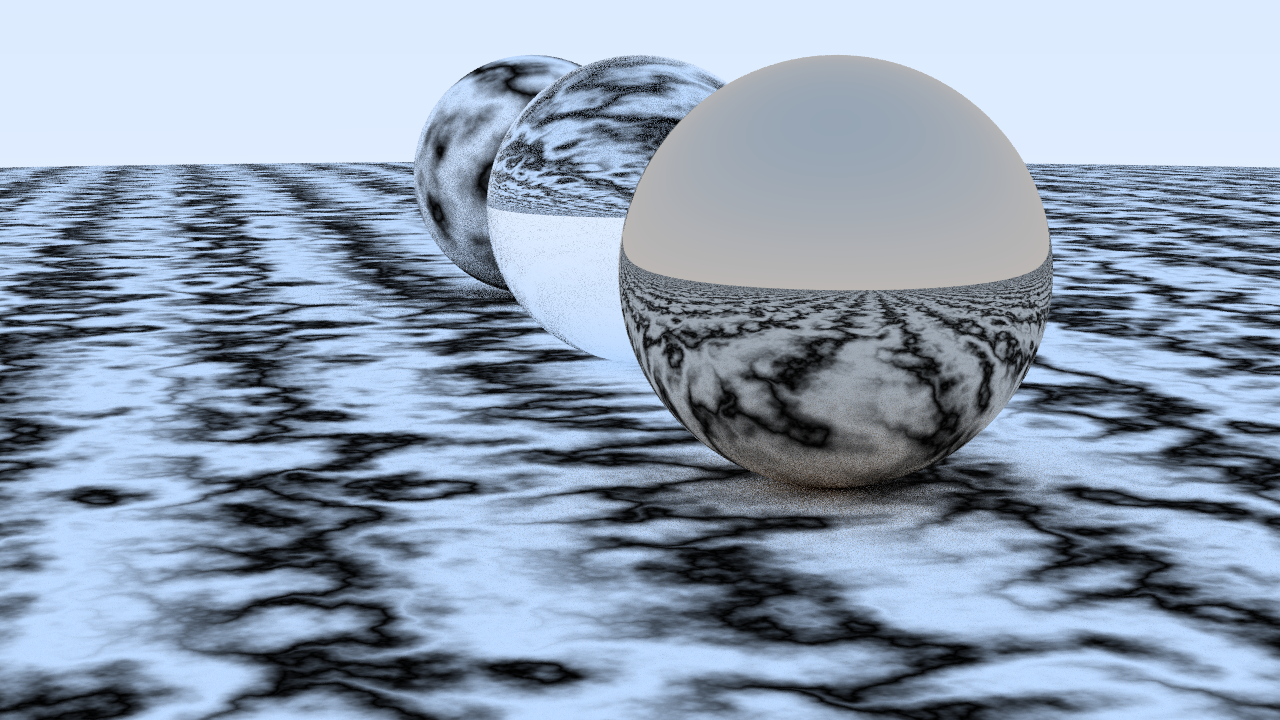
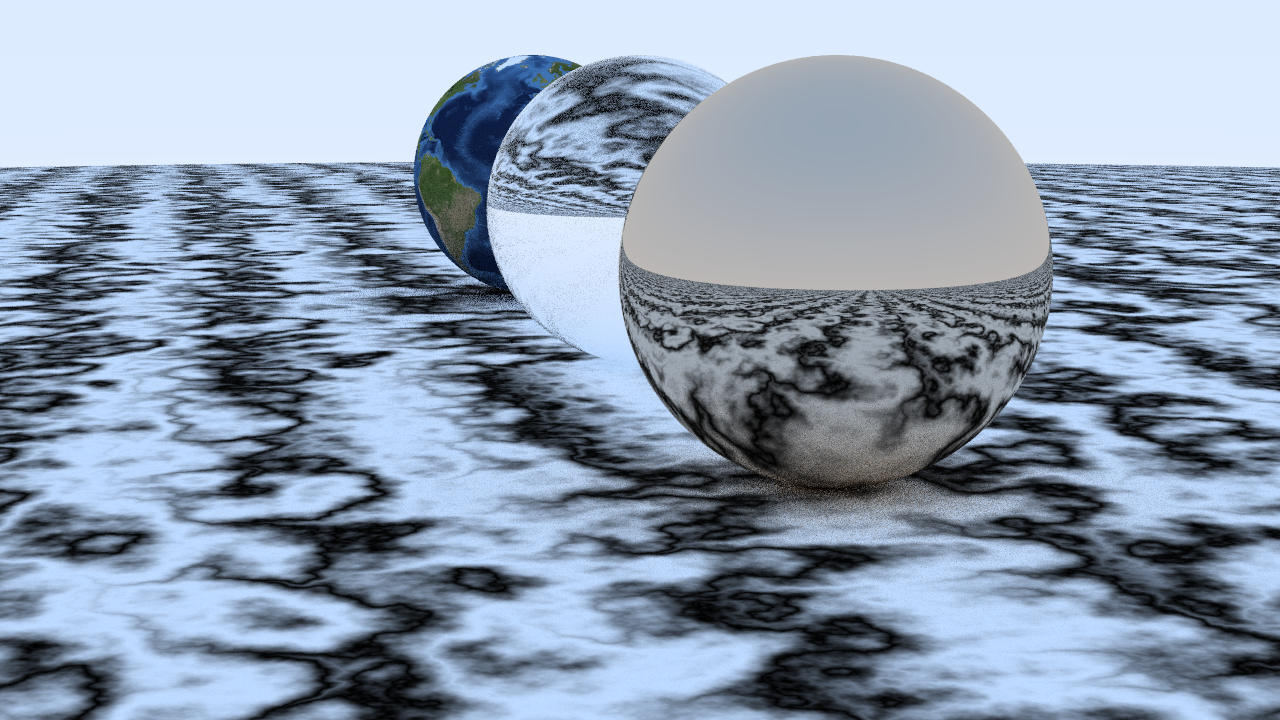
add surface texture

diff --git a/src/material.rs b/src/material.rs
@@ -3,7 +3,7 @@ use crate::vec::Vec3;
 use crate::hitable::HitRecord;
 use crate::sphere;
 use crate::math;
-use crate::perlin;
+use crate::texture::Texture;
 
 use rand::random;
 
@@ -37,7 +37,7 @@ impl Material for Diffuse {
         let target = record.p + record.normal + sphere::random_in_unit_sphere();
         let scattered = Ray::new(record.p, target - record.p, ray.time);
 
-        return Scatter::new(self.albedo.value(0.0, 0.0, &record.p), Some(scattered));
+        return Scatter::new(self.albedo.value(record.u, record.v, &record.p), Some(scattered));
     }
 }
 
@@ -113,102 +113,5 @@ impl Material for Dielectric {
         } else {
             return Scatter::new(attenuation, Some(Ray::new(record.p, refracted.unwrap(), ray.time)))
         }
-    }
-}
-
-pub trait Texture: Send + Sync {
-    fn value(&self, u: f32, v: f32, p: &Vec3) -> Vec3;
-}
-
-pub struct ConstantTexture {
-    color: Vec3
-}
-
-impl ConstantTexture {
-    pub fn new(color: Vec3) -> Self {
-        ConstantTexture { color }
-    }
-}
-
-impl Texture for ConstantTexture {
-    fn value(&self, u: f32, v: f32, p: &Vec3) -> Vec3 {
-        self.color
-    }
-}
-
-pub struct CheckerTexture {
-    odd: Box<Texture>,
-    even: Box<Texture>
-}
-
-impl CheckerTexture {
-    pub fn new(odd: Box<Texture>, even: Box<Texture>) -> Self {
-        CheckerTexture { odd, even }
-    }
-}
-
-impl Texture for CheckerTexture {
-    fn value(&self, u: f32, v: f32, p: &Vec3) -> Vec3 {
-        let sines = (p.x * 10.0).sin() * (p.y * 10.0).sin() * (p.z * 10.0).sin();
-
-        if sines < 0.0 {
-            return self.odd.value(u, v, p);
-        } else {
-            return self.even.value(u, v, p);
-        }
-    }
-}
-
-pub struct NoiseTexture {
-    scale: f32
-}
-
-impl NoiseTexture {
-    pub fn new(scale: f32) -> Self {
-        NoiseTexture { scale }
-    }
-}
-
-impl Texture for NoiseTexture {
-    fn value(&self, u: f32, v: f32, p: &Vec3) -> Vec3 {
-        //return Vec3::new(1.0, 1.0, 1.0) * perlin::turb((*p * self.scale), 7);
-
-        return Vec3::new(1.0, 1.0, 1.0) * 0.5 * (1.0 + (self.scale * p.z + 10.0 * perlin::turb(*p, 7)).sin());
-    }
-}
-
-pub struct ImageTexture {
-    nx: usize,
-    ny: usize
-}
-
-impl ImageTexture {
-    pub fn new(nx: usize, ny: usize) -> Self {
-        ImageTexture { nx, ny }
-    }
-}
-
-impl Texture for ImageTexture {
-    fn value(&self, u: f32, v: f32, p: &Vec3) -> Vec3 {
-        let mut i = u * self.nx as f32;
-        let mut j = (1.0 - v) * self.ny as f32 - 0.001;
-
-        if i < 0.0 {
-            i = 0.0;
-        }
-
-        if j < 0.0 {
-            j = 0.0;
-        }
-
-        if i > (self.nx - 1) as f32 {
-            i = (self.nx - 1) as f32;
-        }
-
-        if j > (self.ny - 1) as f32 {
-            j = (self.ny - 1) as f32;
-        }
-
-        Vec3::zero()
     }
 }

diff --git a/src/texture.rs b/src/texture.rs
@@ -1,0 +1,118 @@
+use crate::vec::Vec3;
+use crate::perlin;
+
+use lodepng::RGB;
+
+pub trait Texture: Send + Sync {
+    fn value(&self, u: f32, v: f32, p: &Vec3) -> Vec3;
+}
+
+pub struct ConstantTexture {
+    color: Vec3
+}
+
+impl ConstantTexture {
+    pub fn new(color: Vec3) -> Self {
+        ConstantTexture { color }
+    }
+}
+
+impl Texture for ConstantTexture {
+    fn value(&self, u: f32, v: f32, p: &Vec3) -> Vec3 {
+        self.color
+    }
+}
+
+pub struct CheckerTexture {
+    odd: Box<Texture>,
+    even: Box<Texture>
+}
+
+impl CheckerTexture {
+    pub fn new(odd: Box<Texture>, even: Box<Texture>) -> Self {
+        CheckerTexture { odd, even }
+    }
+}
+
+impl Texture for CheckerTexture {
+    fn value(&self, u: f32, v: f32, p: &Vec3) -> Vec3 {
+        let sines = (p.x * 10.0).sin() * (p.y * 10.0).sin() * (p.z * 10.0).sin();
+
+        if sines < 0.0 {
+            return self.odd.value(u, v, p);
+        } else {
+            return self.even.value(u, v, p);
+        }
+    }
+}
+
+pub struct NoiseTexture {
+    scale: f32
+}
+
+impl NoiseTexture {
+    pub fn new(scale: f32) -> Self {
+        NoiseTexture { scale }
+    }
+}
+
+impl Texture for NoiseTexture {
+    fn value(&self, u: f32, v: f32, p: &Vec3) -> Vec3 {
+        //return Vec3::new(1.0, 1.0, 1.0) * perlin::turb((*p * self.scale), 7);
+
+        return Vec3::new(1.0, 1.0, 1.0) * 0.5 * (1.0 + (self.scale * p.z + 10.0 * perlin::turb(*p, 7)).sin());
+    }
+}
+
+pub struct ImageTexture {
+    data: Vec<RGB<u8>>,
+    nx: usize,
+    ny: usize
+}
+
+impl ImageTexture {
+    pub fn new(data: Vec<RGB<u8>>, nx: usize, ny: usize) -> Self {
+        ImageTexture { data, nx, ny }
+    }
+
+    pub fn from_image(filepath: &str) -> Self {
+        
+        let img = lodepng::decode24_file(filepath);
+        
+        if img.is_err() {
+            panic!("can not decode image: {}", img.unwrap_err());
+        }
+
+        let data = img.unwrap();
+        ImageTexture { data: data.buffer, nx: data.width, ny: data.height }
+    }
+}
+
+impl Texture for ImageTexture {
+    fn value(&self, u: f32, v: f32, p: &Vec3) -> Vec3 {
+        let mut i = u * self.nx as f32;
+        let mut j = (1.0 - v) * self.ny as f32 - 0.001;
+
+        if i < 0.0 {
+            i = 0.0;
+        }
+
+        if j < 0.0 {
+            j = 0.0;
+        }
+
+        if i > (self.nx - 1) as f32 {
+            i = (self.nx - 1) as f32;
+        }
+
+        if j > (self.ny - 1) as f32 {
+            j = (self.ny - 1) as f32;
+        }
+
+        let pixel = self.data[(i as usize) + self.nx * (j as usize)];
+
+        //println!("pixel: {}, i: {}, j: {}", pixel, i, j);
+
+        Vec3::new(pixel.r as f32 / 255.0, pixel.g as f32 / 255.0, pixel.b as f32 / 255.0)
+    }
+}

diff --git a/src/sphere.rs b/src/sphere.rs
@@ -39,10 +39,10 @@ impl Sphere {
          return self.center0 + (self.center1 - self.center0) * ((time - self.time0) / (self.time1 - self.time0));
     }
 
-    pub fn get_sphere_uv(p: &Vec3) -> (f32,f32) {
+    pub fn get_sphere_uv(p: Vec3) -> (f32,f32) {
         let phi = p.z.atan2(p.x);
         let theta = p.y.asin();
-        let u = 1.0 - (phi + std::f32::consts::PI) / 2.0 * std::f32::consts::PI;
+        let u = 1.0 - (phi + std::f32::consts::PI) / (2.0 * std::f32::consts::PI);
         let v = (theta + std::f32::consts::PI / 2.0) / std::f32::consts::PI;
 
         (u, v)
@@ -64,14 +64,16 @@ impl<'a> Hitable for Sphere {
             if t < t_range.end && t > t_range.start {
                 let p = r.point_at_parameter(t);
                 let normal = (p - self.center(r.time)) / self.radius;
-                return Some(HitRecord::new(t, p, normal, &*self.material));
+                let uv = Sphere::get_sphere_uv( (p - self.center(r.time)) / self.radius );
+                return Some(HitRecord::new(t, p, normal, &*self.material, uv.0, uv.1));
             }
 
             let t = (-b + (b * b - a * c).sqrt()) / a;
             if t < t_range.end && t > t_range.start {
                 let p = r.point_at_parameter(t);
                 let normal = (p - self.center(r.time)) / self.radius;
-                return Some(HitRecord::new(t, p, normal, &*self.material));
+                let uv = Sphere::get_sphere_uv( (p - self.center(r.time)) / self.radius );
+                return Some(HitRecord::new(t, p, normal, &*self.material, uv.0, uv.1));
             }
         }
 

diff --git a/src/render.rs b/src/render.rs
@@ -6,6 +6,7 @@ use crate::hitable::HitableList;
 use crate::sphere::Sphere;
 use crate::camera::Camera;
 use crate::material::*;
+use crate::texture::*;
 use lodepng::RGB;
 
 use rand::distributions::Uniform;
@@ -39,8 +40,8 @@ fn create_scene() -> Vec<Box<Hitable>> {
         Vec3 { x: -4.0, y: 1.0, z: 0.0 },
         1.0,
         Box::new(Diffuse::new(
-            //Box::new(ConstantTexture::new(Vec3::new(0.4, 0.2, 0.1)))
-            perlin_tex_sphere
+            Box::new(ImageTexture::from_image("earthmap.png"))
+            //perlin_tex_sphere
         ))
     )));
     world.push(Box::new(Sphere::new(

diff --git a/src/hitable.rs b/src/hitable.rs
@@ -7,13 +7,15 @@ use crate::aabb::AABB;
 pub struct HitRecord<'a> {
     pub t: f32,
     pub p: Vec3,
+    pub u: f32,
+    pub v: f32,
     pub normal: Vec3,
     pub material: &'a Material
 }
 
 impl<'a> HitRecord<'a> {
-    pub fn new(t: f32, p: Vec3, n: Vec3, material: &'a Material) -> Self {
-        HitRecord { t, p, normal: n, material }
+    pub fn new(t: f32, p: Vec3, n: Vec3, material: &'a Material, u: f32, v: f32) -> Self {
+        HitRecord { t, p, normal: n, material, u, v }
     }
 }
 

diff --git a/src/main.rs b/src/main.rs
@@ -16,6 +16,7 @@ mod render;
 mod aabb;
 mod bvh_node;
 mod perlin;
+mod texture;
 
 use std::time::Instant;
 
